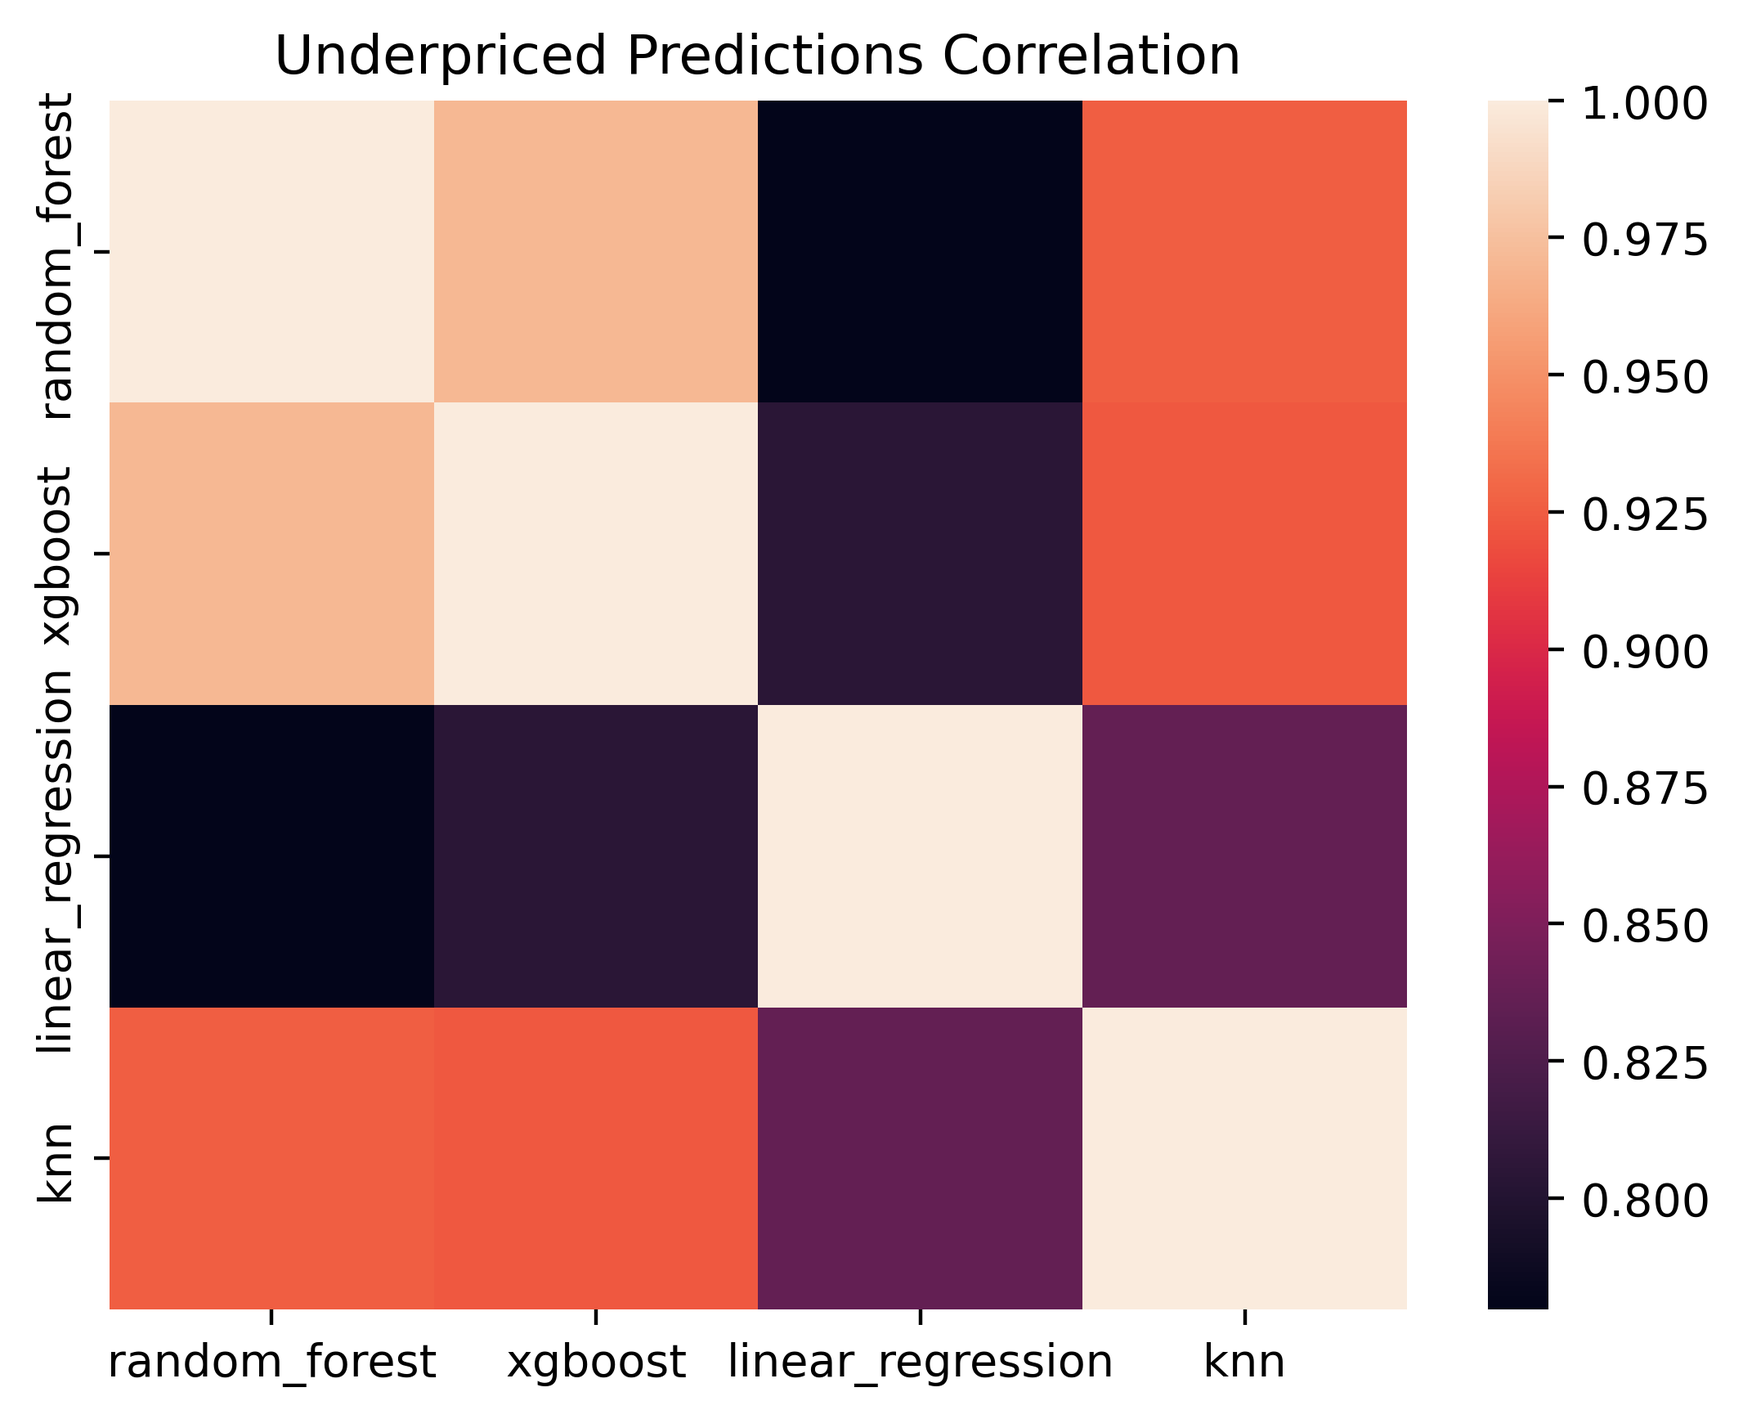
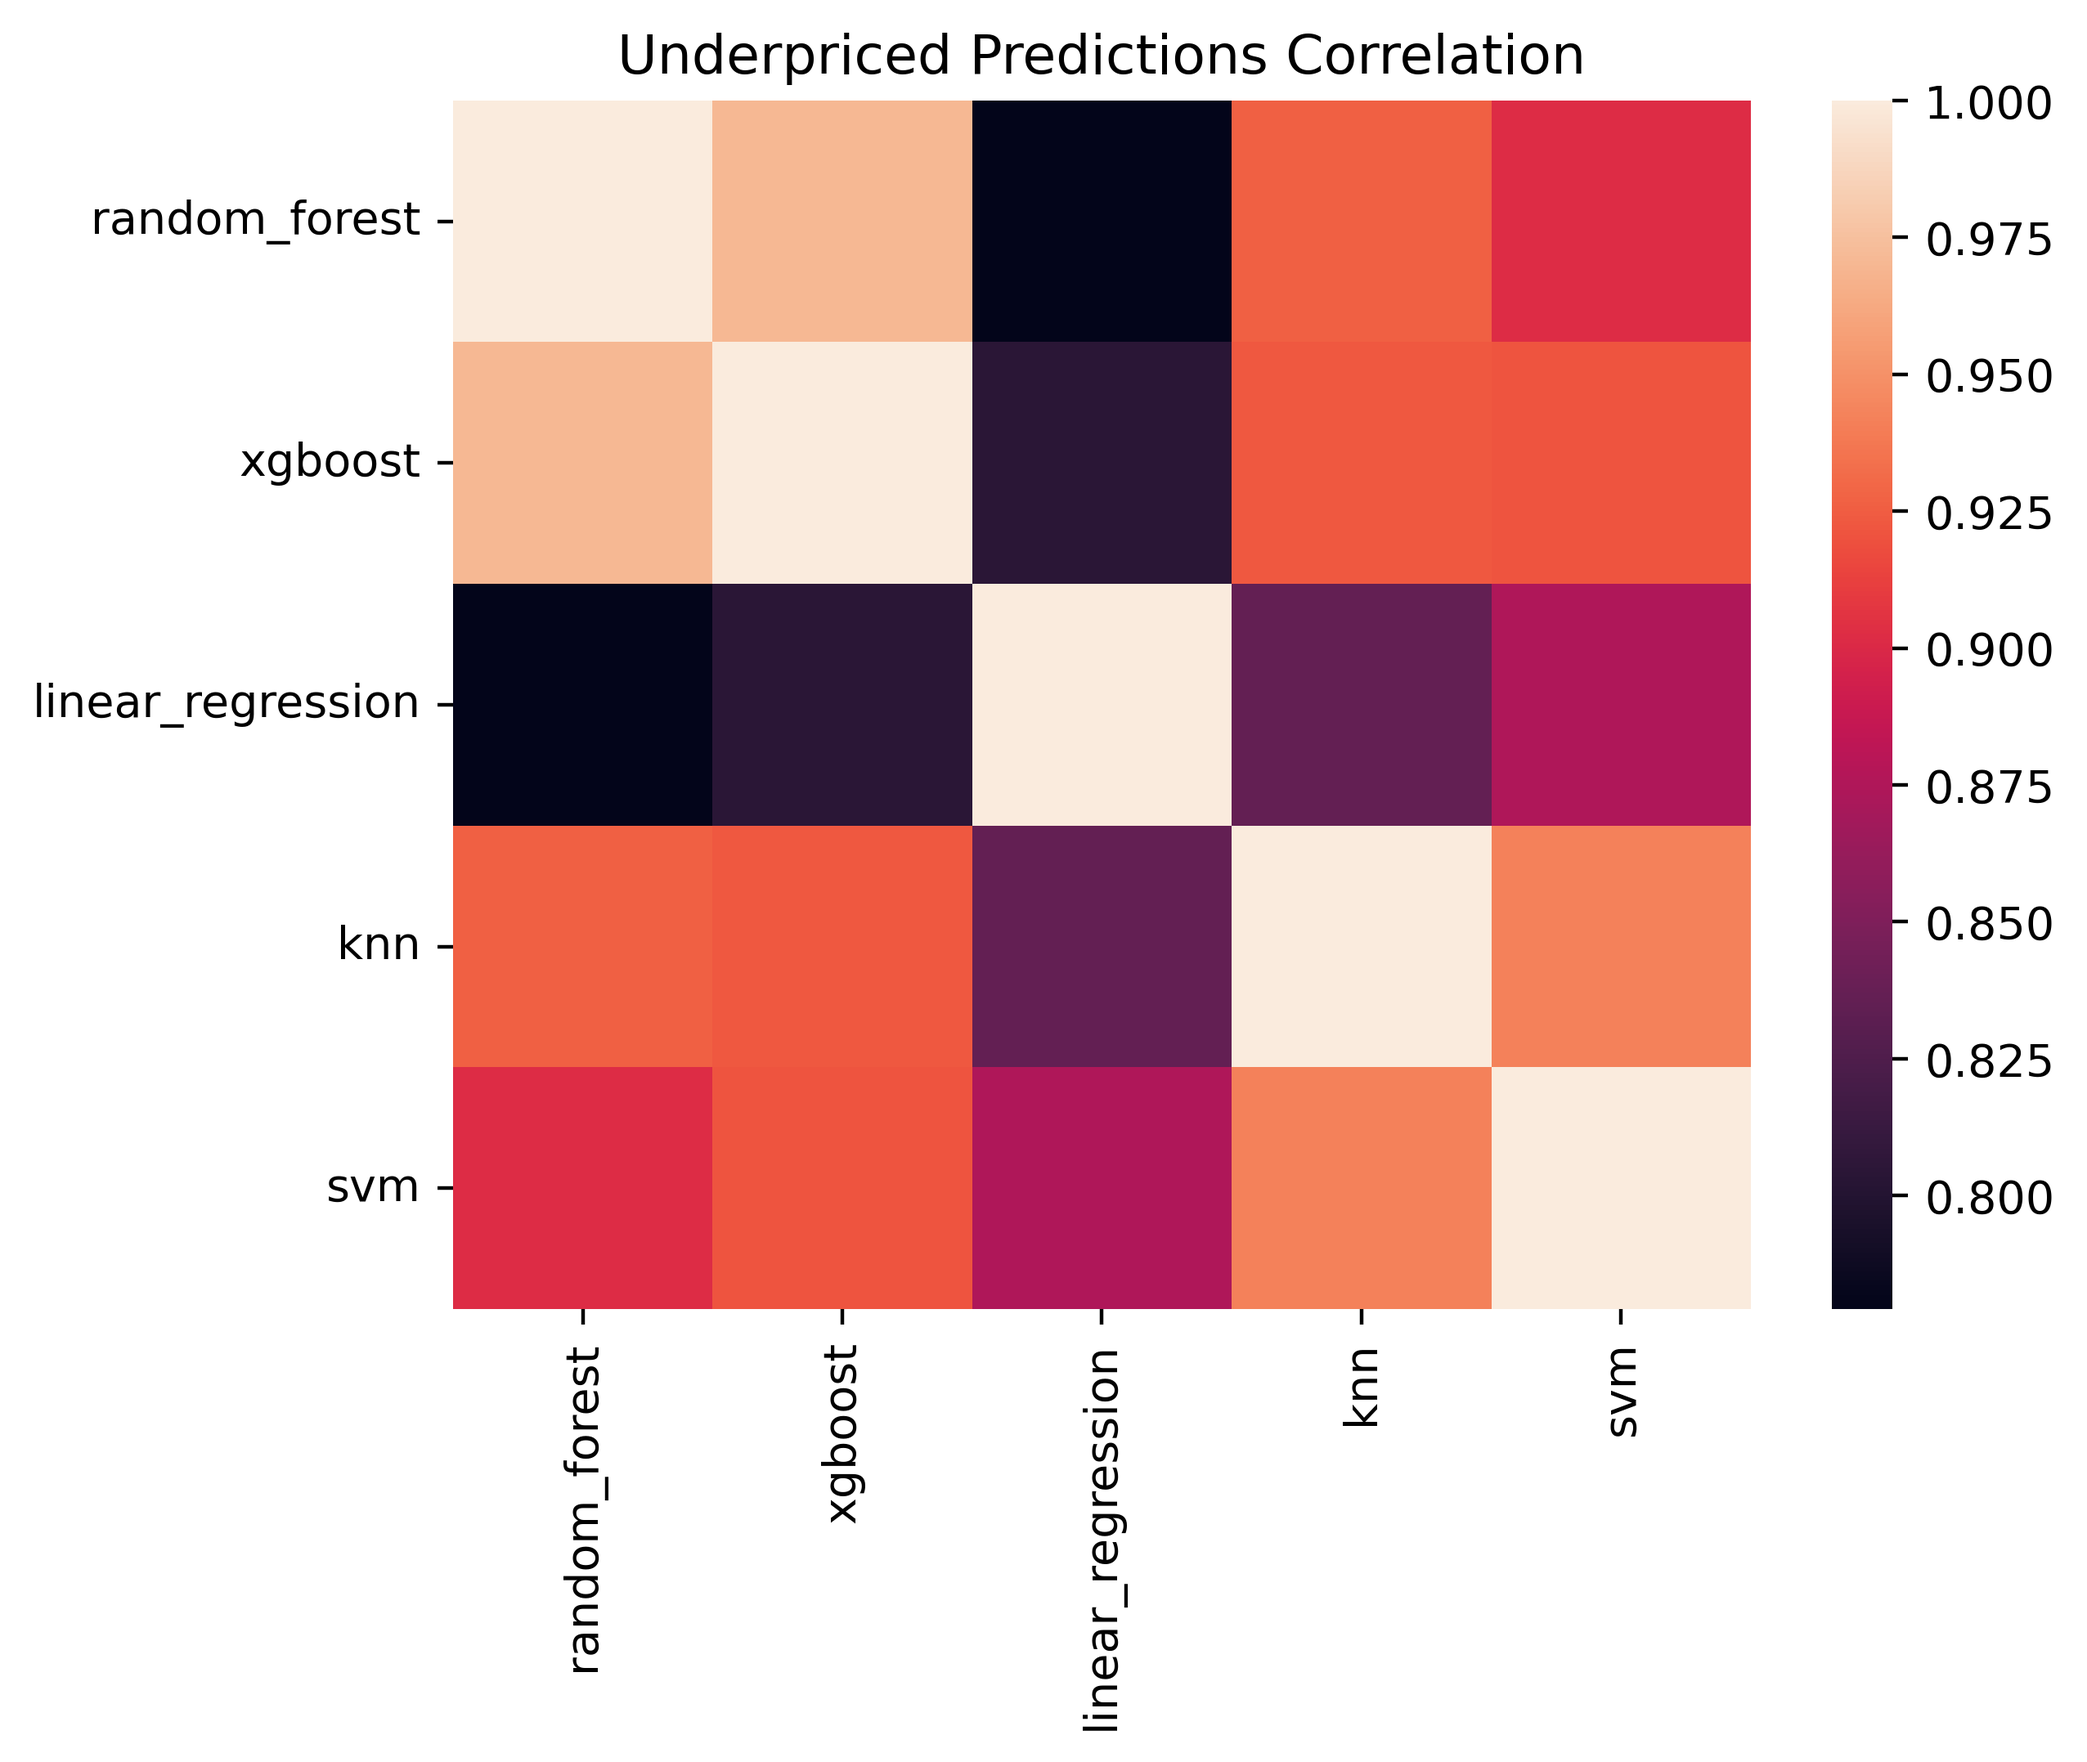
Add svm model

diff --git a/anomalyDetection.py b/anomalyDetection.py
@@ -3,6 +3,7 @@ from sklearn.linear_model import LinearRegression
 from sklearn.metrics import root_mean_squared_error
 from sklearn.neighbors import KNeighborsRegressor
 from sklearn.preprocessing import StandardScaler
+from sklearn.svm import SVR
 from folium import FeatureGroup
 from xgboost import XGBRegressor
 import pandas as pd, numpy as np, utils
@@ -67,7 +68,8 @@ def compareModelPreds(data: pd.DataFrame) -> tuple[pd.DataFrame, pd.Series]:
         'random_forest': getModelPredictions(RandomForestRegressor(), x_data, y_data, featureDf),
         'xgboost': getModelPredictions(XGBRegressor(n_estimators=100, max_depth=5, learning_rate=0.1, random_state=0), x_data, y_data, featureDf),
         'linear_regression': getModelPredictions(LinearRegression(), x_data, y_data),
-        'knn': getModelPredictions(KNeighborsRegressor(), x_data, y_data)
+        'knn': getModelPredictions(KNeighborsRegressor(), x_data, y_data),
+        'svm': getModelPredictions(SVR(), x_data, y_data)
     })
     utils.buildHeatmap(predsDf.corr(), "Underpriced Predictions Correlation", xTitle="", yTitle="", saveFlag=True, fileName="underpriced_preds_correlation")
     showFeatures(pd.DataFrame(featureDf))
@@ -75,11 +77,8 @@ def compareModelPreds(data: pd.DataFrame) -> tuple[pd.DataFrame, pd.Series]:
     
     scaler = StandardScaler()
     scaledPredsDf = pd.DataFrame(scaler.fit_transform(predsDf), columns=predsDf.columns)
-    print(predsDf.var())
     print(predsDf.describe())
-    print(scaledPredsDf.var())
     print(scaledPredsDf.describe())
-    print(y_data.var())
     print(y_data.describe())
 
     inputDf = predsDf
@@ -89,7 +88,8 @@ def compareModelPreds(data: pd.DataFrame) -> tuple[pd.DataFrame, pd.Series]:
         'random_forest': getModelPredictions(RandomForestRegressor(), inputDf, y_data, stackedFeatureDf),
         'xgboost': getModelPredictions(XGBRegressor(n_estimators=100, max_depth=5, learning_rate=0.1, random_state=0), inputDf, y_data, stackedFeatureDf),
         'linear_regression': getModelPredictions(LinearRegression(), inputDf, y_data),
-        'knn': getModelPredictions(KNeighborsRegressor(), inputDf, y_data)
+        'knn': getModelPredictions(KNeighborsRegressor(), inputDf, y_data),
+        'svm': getModelPredictions(SVR(), inputDf, y_data)
     })
 
     rmseList = addCols(y_data, stackedPredsDf, verbal=True, n=5)
